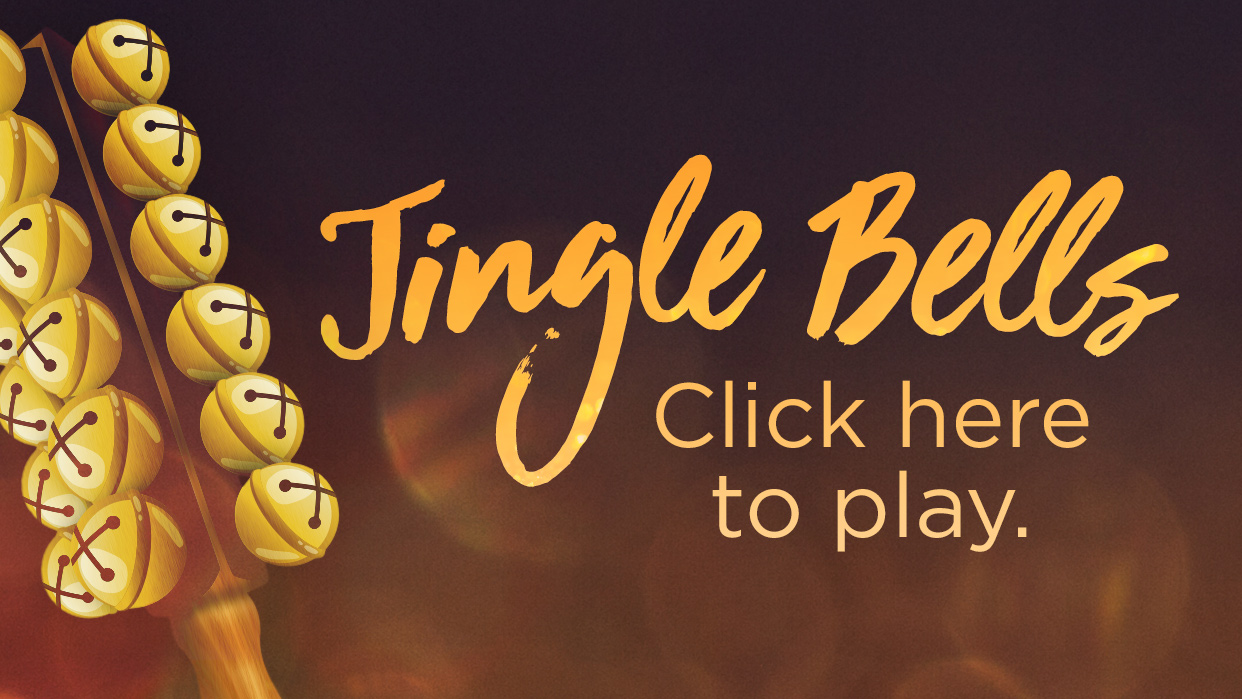
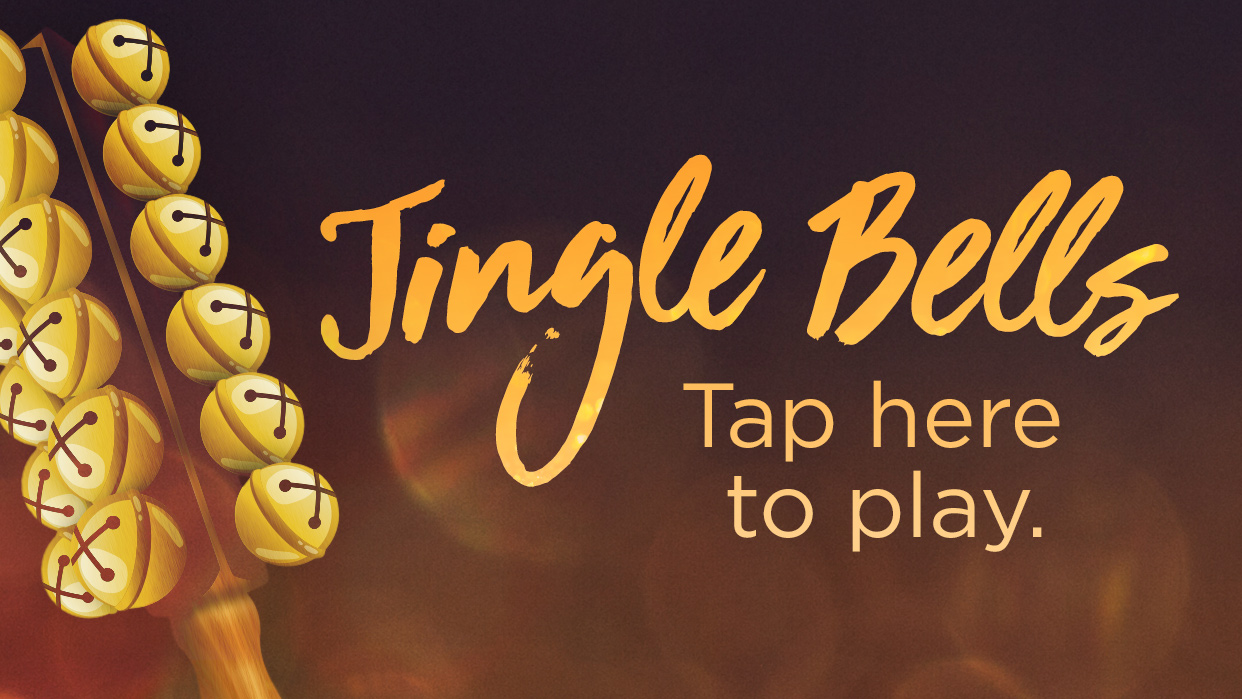
Final jingle bells art. Updated project files to point to CCV's Rock implementation

Changed region(s): [[0.5201, 0.5408, 0.8873, 0.8112]]

diff --git a/App.Shared/Config.cs b/App.Shared/Config.cs
@@ -33,7 +33,7 @@ namespace App
             
             public class GeneralConfig
             {
-                public const int Version = 2172;
+                public const int Version = 2173;
 
                 /// <summary>
                 /// The full name of your organization
